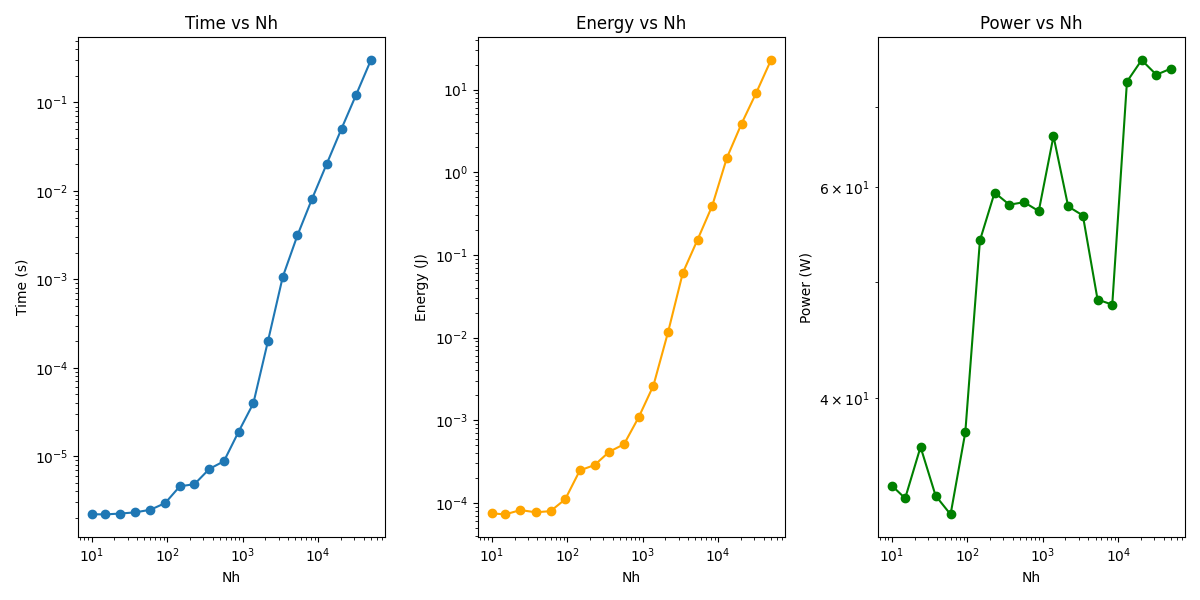
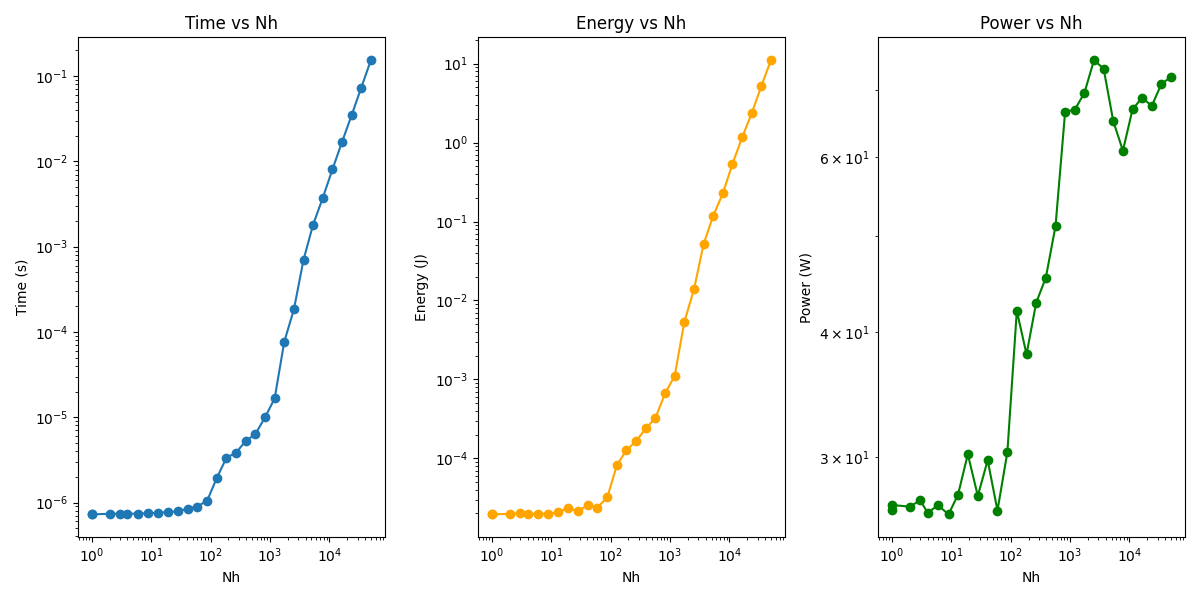
Start from Nh=1

diff --git a/src/measure_consumption.py b/src/measure_consumption.py
@@ -90,7 +90,7 @@ def measure_energy_power(vector_sizes, vector_repeats, num_runs=20, warmup_runs=
     return results, device
 
 # Define vector sizes to test
-vector_sizes = np.logspace(1, 4.7, num=20, base=10).astype(int).tolist()
+vector_sizes = np.logspace(0, 4.7, num=30, base=10).astype(int).tolist()
 vector_repeats = [get_repeat_value(x) for x in vector_sizes]
 
 # Perform measurements

diff --git a/src/nvidiasmi_consumption.py b/src/nvidiasmi_consumption.py
@@ -98,7 +98,7 @@ def measure_energy_power(vector_sizes, vector_repeats, num_runs=10, warmup_runs=
     return results
 
 # Define vector sizes to test
-vector_sizes = np.logspace(1, 4.3, num=20, base=10).astype(int).tolist()
+vector_sizes = np.logspace(0, 4.3, num=40, base=10).astype(int).tolist()
 def get_repeat_value(x):
     if x < 1000:
         return 10000
